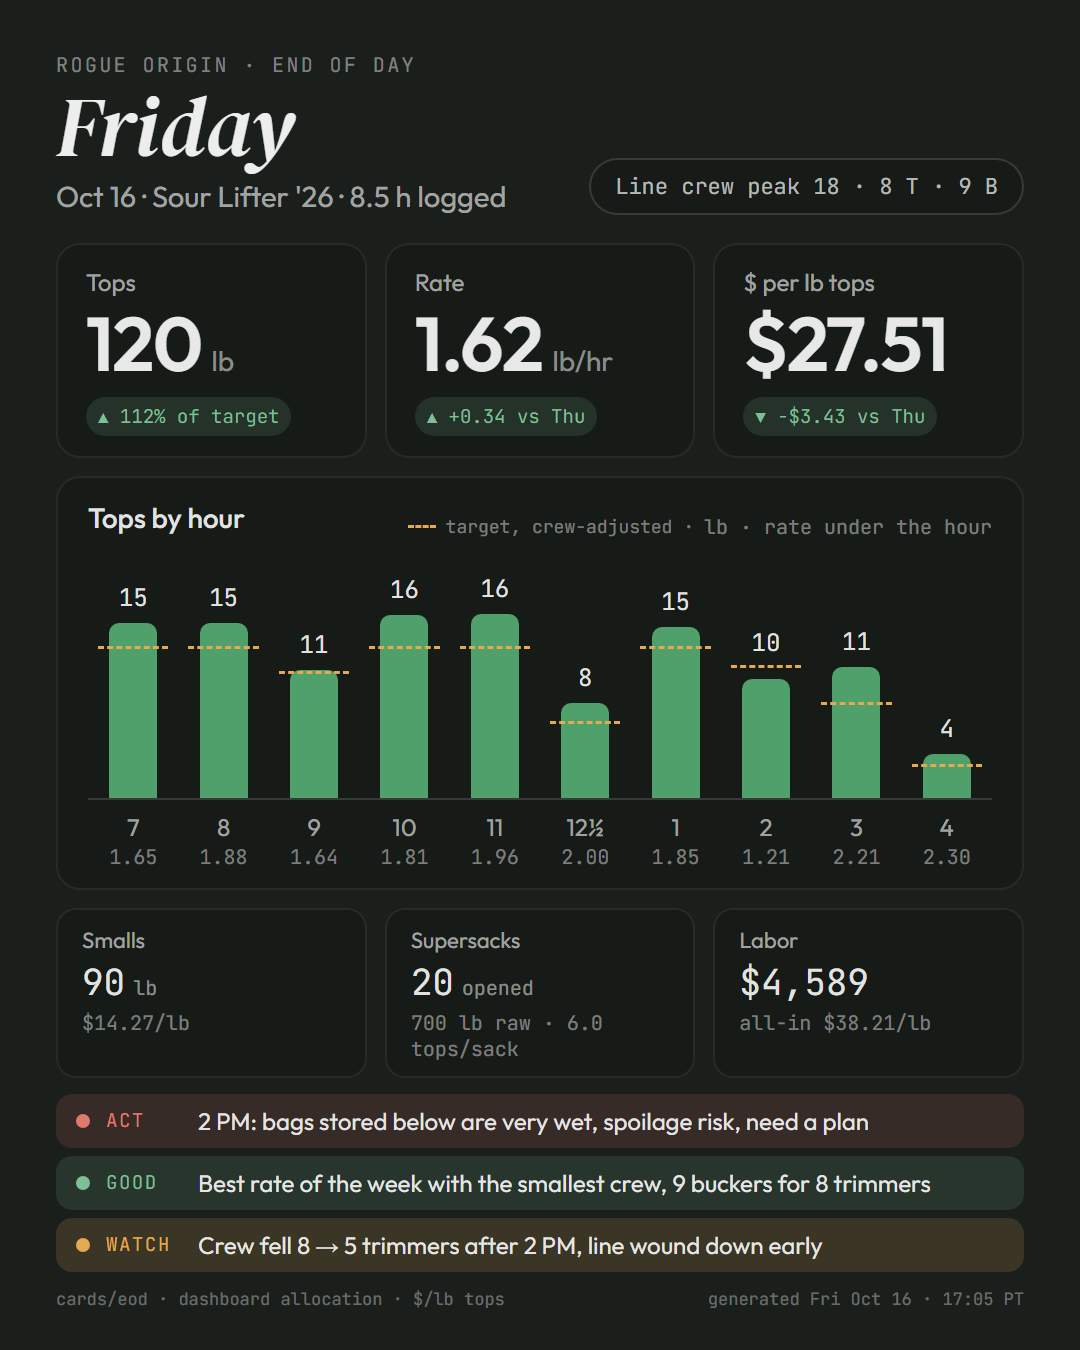
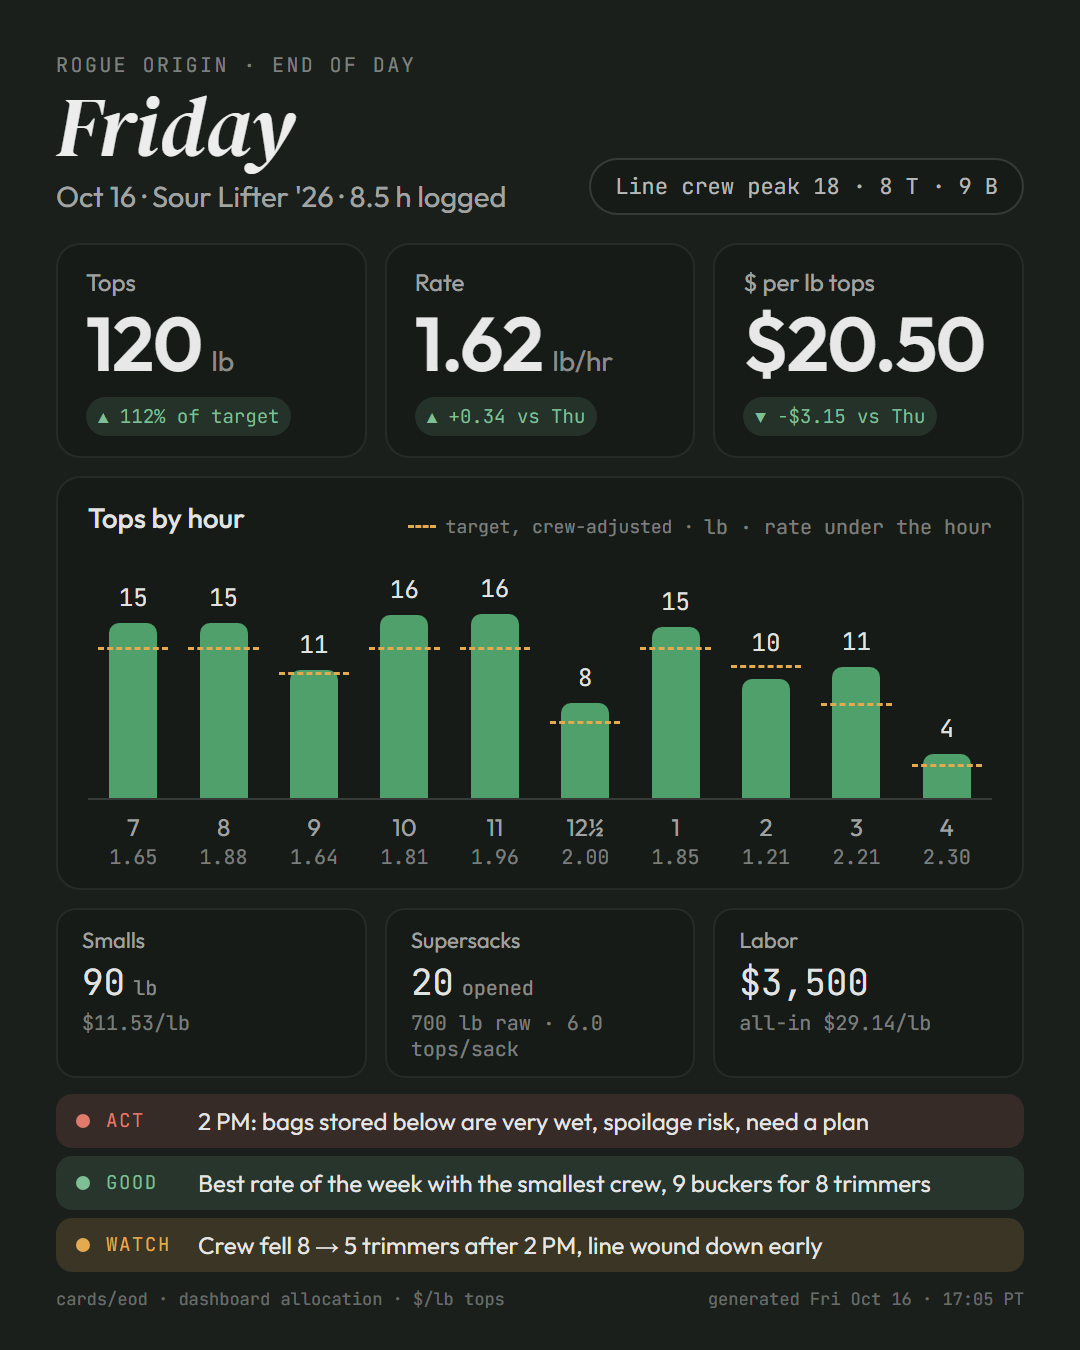
fix(cards): replace real labor-cost figures with synthetic ones
The cards test fixtures, the cost maps the tests inject, the design mocks and
two older docs carried real dashboard cost figures and the real loaded wage.
The repo is public and Pages serves the whole tree, so these undid the API
cost lock. They are now synthetic ($20 per operator hour; invented tops/smalls
splits), and the wage example in labor-rate.test is synthetic too.

The weekly test still exercises the displayed-vs-raw rounding split on the
cost chip, and every chip keeps its direction. The non-cost fixture data is
what the public API already serves without the password.

diff --git a/cards/src/model.js b/cards/src/model.js
@@ -101,9 +101,9 @@ const signed = (body) => (v) => {
   return v < 0 && /[1-9]/.test(text) ? MINUS + text : text;
 };
 
-/** 20530.26 → "20,530"; -20530.26 → "−20,530". */
+/** 15660.26 → "15,660"; -15660.26 → "−15,660". */
 export const fmtInt = signed((v) => intFormat.format(Math.round(v)));
-/** 20530.26 → "$20,530"; -5 → "−$5". */
+/** 15660.26 → "$15,660"; -5 → "−$5". */
 export const fmtMoney = signed((v) => `$${intFormat.format(Math.round(v))}`);
 /** 5.58 → "5.6". */
 export const fmt1 = signed((v) => v.toFixed(1));
@@ -172,7 +172,7 @@ function weighted(items, valueOf, weightOf) {
 
 /** A 2-decimal figure at display precision, so a change chip is the difference of the numbers as shown. */
 const shown2 = (v) => (Number.isFinite(v) ? Math.round(v * 100) / 100 : null);
-/** 27.514 → "$27.51". */
+/** 20.504 → "$20.50". */
 const perLb = (v) => (Number.isFinite(v) ? `$${fmt2(v)}` : DASH);
 
 const dayRate = (day) => ratio(day.totalTops, day.trimmerHours);

diff --git a/docs/plans/assets/2026-10-19-card-mock-builder.py b/docs/plans/assets/2026-10-19-card-mock-builder.py
@@ -175,13 +175,13 @@ def eod():
     <div class="tiles">
       {tile("Tops", "120", "lb", [("good", "▲ 112% of target")])}
       {tile("Rate", "1.62", "lb/hr", [("good", "▲ +0.34 vs Thu")])}
-      {tile("$ per lb tops", "$27.51", "", [("good", "▼ −$3.43 vs Thu")])}
+      {tile("$ per lb tops", "$20.50", "", [("good", "▼ −$3.15 vs Thu")])}
     </div>
     {chart("Tops by hour", "lb · rate under the hour", cols, 48, ppl)}
     <div class="row2">
-      {mini("Smalls", "90", "lb", "$14.27/lb")}
+      {mini("Smalls", "90", "lb", "$11.53/lb")}
       {mini("Supersacks", "20", "opened", "700 lb raw · 6.0 tops/sack")}
-      {mini("Labor", "$4,589", "", "all-in $38.21/lb")}
+      {mini("Labor", "$3,500", "", "all-in $29.14/lb")}
     </div>
     <div class="watch">
       {flag("bad", "Act", "2 PM: bags stored below are very wet, spoilage risk, need a plan")}
@@ -211,13 +211,13 @@ def weekly():
     <div class="tiles">
       {tile("Tops", "497", "lb", [("good", "▲ +261% vs W41"), ("warn", f"{wk_pct:.0f}% target")])}
       {tile("Rate", "1.34", "lb/hr", [("good", "▲ +0.14 vs W41")])}
-      {tile("$ per lb tops", "$30.28", "", [("good", "▼ −$4.84 vs W41")])}
+      {tile("$ per lb tops", "$22.78", "", [("good", "▼ −$3.55 vs W41")])}
     </div>
     {chart("Tops by day", "lb · rate under the day", cols, 72, ppl)}
     <div class="row2">
-      {mini("Smalls", "429", "lb", "$12.76/lb")}
+      {mini("Smalls", "429", "lb", "$10.10/lb")}
       {mini("Supersacks", "88", "opened", "3,080 lb raw · 5.6 tops/sack")}
-      {mini("Labor", "$20,530", "", "all-in $41.29/lb")}
+      {mini("Labor", "$15,660", "", "all-in $31.50/lb")}
     </div>
     <div class="watch">
       {flag("bad", "Act", "Fri: wet bags stored below, spoilage risk")}

diff --git a/docs/plans/2026-10-19-production-cards-plan.md b/docs/plans/2026-10-19-production-cards-plan.md
@@ -22,7 +22,7 @@
 - Create: `cards/package.json`
 - Create: `cards/wrangler.toml`
 - Exists: `cards/fonts/{Outfit-Medium,Outfit-SemiBold,JetBrainsMono-Regular,DMSerifDisplay-Italic}.ttf`
-- Exists: `cards/test/fixtures/*.json` (captured 2026-10-19 from the live API; `dashboard-2026-W42.unlocked.json` has cost keys, the `.locked.json` files do not)
+- Exists: `cards/test/fixtures/*.json` (captured 2026-10-19 from the live API; `dashboard-2026-W42.unlocked.json` has cost keys, synthetic since 2026-10-29, the `.locked.json` files do not)
 - Modify: `.gitignore` → add `cards/node_modules/` and `cards/.wrangler/`
 
 **Step 1: write `cards/package.json`**
@@ -188,7 +188,7 @@ test('translate keeps unknown words and maps the floor vocabulary', () => {
 test('costsLocked is true when the dashboard day has no topsCostPerLb', () => { ... locked fixture → true; unlocked → false });
 test('delta chip: direction, sign, good/bad polarity', () => {
   assert.deepEqual(deltaChip(1.34, 1.20, { fmt: v => v.toFixed(2), upIsGood: true, vs: 'W41' }), { kind: 'good', text: '▲ +0.14 vs W41' });
-  assert.deepEqual(deltaChip(30.28, 35.12, { fmt: v => '$' + v.toFixed(2), upIsGood: false, vs: 'W41' }), { kind: 'good', text: '▼ −$4.84 vs W41' });
+  assert.deepEqual(deltaChip(22.78, 26.33, { fmt: v => '$' + v.toFixed(2), upIsGood: false, vs: 'W41' }), { kind: 'good', text: '▼ −$3.55 vs W41' });
   assert.deepEqual(deltaChip(100, 100, { fmt: String, upIsGood: true, vs: 'Thu' }), { kind: 'neutral', text: '= vs Thu' });
   assert.equal(deltaChip(5, null, {...}), null);
 });
@@ -221,7 +221,7 @@ test('header', () => {
 test('hero tiles', () => {
   assert.deepEqual(m.tiles[0], { label: 'Tops', value: '497', unit: 'lb', chips: [{ kind: 'good', text: '▲ +261% vs W41' }, { kind: 'warn', text: '98% target' }] });
   assert.equal(m.tiles[1].value, '1.34');
-  assert.deepEqual(m.tiles[2], { label: '$ per lb tops', value: '$30.28', unit: '', chips: [{ kind: 'good', text: '▼ −$4.84 vs W41' }] });
+  assert.deepEqual(m.tiles[2], { label: '$ per lb tops', value: '$22.78', unit: '', chips: [{ kind: 'good', text: '▼ −$3.55 vs W41' }] });
 });
 test('chart has five weekday columns, Monday off, ticks from the scoreboard targets', () => {
   assert.equal(m.chart.cols.length, 5);
@@ -231,9 +231,9 @@ test('chart has five weekday columns, Monday off, ticks from the scoreboard targ
   assert.equal(m.chart.cols[4].rate, '1.62');
 });
 test('mini row', () => {
-  assert.deepEqual(m.minis[0], { label: 'Smalls', value: '429', unit: 'lb', sub: '$12.76/lb' });
+  assert.deepEqual(m.minis[0], { label: 'Smalls', value: '429', unit: 'lb', sub: '$10.10/lb' });
   assert.deepEqual(m.minis[1], { label: 'Supersacks', value: '88', unit: 'opened', sub: '3,080 lb raw · 5.6 tops/sack' });
-  assert.deepEqual(m.minis[2], { label: 'Labor', value: '$20,530', unit: '', sub: 'all-in $41.29/lb' });
+  assert.deepEqual(m.minis[2], { label: 'Labor', value: '$15,660', unit: '', sub: 'all-in $31.50/lb' });
 });
 test('flags: at most three, Act first', () => {
   assert.equal(m.flags[0].kind, 'bad');
@@ -251,7 +251,7 @@ test('foot', () => assert.deepEqual(m.foot, { left: 'cards/weekly · dashboard a
 
 Rules the implementation must follow (they are the approved mock):
 - Weighted averages: rate = Σ tops ÷ Σ trimmerHours; $/lb tops = Σ(topsCostPerLb × tops) ÷ Σ tops; smalls likewise; all-in = Σ laborCost ÷ Σ tops.
-- Prior week deltas use the same formulas on `prior.daily`. Tops delta as a percentage (`+261%`), rate as `+0.14`, cost as `−$4.84`; `upIsGood` false for cost.
+- Prior week deltas use the same formulas on `prior.daily`. Tops delta as a percentage (`+261%`), rate as `+0.14`, cost as `−$3.55`; `upIsGood` false for cost.
 - `% target` = Σ tops ÷ Σ scoreboard `todayTarget` of the worked days; chip kind: ≥100 good, 90–99 warn, else bad.
 - Cultivar short name: dominant `cultivar` across days; strip a leading `YYYY - `, strip ` / Sungrown`; append `'YY` from the leading year; more than one cultivar → main one + ` +1` per extra.
 - Days: Monday..Friday of the week; a weekday missing from `daily` (or `totalTops` 0) is `kind: 'off'`.
@@ -267,13 +267,13 @@ Rules the implementation must follow (they are the approved mock):
 
 **Files:**
 - Modify: `cards/src/model.js` → export `eodModel({ date, dashboard, priorDay, scoreboard, sacks, generatedAt })`
-- Test: `cards/test/model-eod.test.mjs` (fixtures: `dashboard-2026-10-16.locked.json` + an unlocked copy built in the test by adding the known cost keys `laborCost 4588.5, costPerLb 21.84, topsCostPerLb 27.51, smallsCostPerLb 14.27`; prior `dashboard-2026-10-15.locked.json` with `topsCostPerLb 30.94` added; `scoreboard-2026-10-16.json`; `supersack-2026-10-16.json`)
+- Test: `cards/test/model-eod.test.mjs` (fixtures: `dashboard-2026-10-16.locked.json` + an unlocked copy built in the test by adding the known cost keys `laborCost 3500, costPerLb 16.66, topsCostPerLb 20.50, smallsCostPerLb 11.53`; prior `dashboard-2026-10-15.locked.json` with `topsCostPerLb 23.65` added; `scoreboard-2026-10-16.json`; `supersack-2026-10-16.json`)
 
 **Tests (same shape as A5):**
 - title `Friday`, sub `Oct 16 · Sour Lifter '26 · 8.5 h logged` (hours = scoreboard `effectiveHours` to 1 decimal), pill `Line crew peak 18 · 8 T · 9 B` (peak = `totalCrew`; T/B = the max trimmers / max buckers across hourlyRates).
-- tiles: Tops `120` lb chip `▲ 112% of target` (todayPercentage, kind by the same bands); Rate `1.62` chip `▲ +0.34 vs Thu`; `$ per lb tops` `$27.51` chip `▼ −$3.43 vs Thu`.
+- tiles: Tops `120` lb chip `▲ 112% of target` (todayPercentage, kind by the same bands); Rate `1.62` chip `▲ +0.34 vs Thu`; `$ per lb tops` `$20.50` chip `▼ −$3.15 vs Thu`.
 - chart: one column per `hourlyRates` row sorted by slot start; `lbs`, `rate` 2 decimals, `target = hourTarget(row)` (effectiveTrimmers × row.target × multiplier, the scoreboard method), `label = slotLabel`.
-- minis: Smalls `90` lb `$14.27/lb`; Supersacks `20` opened `700 lb raw · 6.0 tops/sack`; Labor `$4,589` `all-in $38.21/lb`.
+- minis: Smalls `90` lb `$11.53/lb`; Supersacks `20` opened `700 lb raw · 6.0 tops/sack`; Labor `$3,500` `all-in $29.14/lb`.
 - flags: Act from the day's bad note with the slot start prefix ("2 PM: …"), Good = `Best hour 3–4 at 2.21` or, when the day's rate beats the prior day, `Best rate since <prior day>` — keep it simple: Good = best hour line; Watch = warn note or, if none, a crew drop ("Crew fell 8 → 5 trimmers after 2 PM") when the last hour's trimmers are < 70% of the peak.
 - no rows (`hourlyRates` empty) → the function returns `null` (the route turns that into 204).
 - locked variant → 🔒 as in A5.

diff --git a/docs/plans/2026-01-28-strain-analysis-ai.md b/docs/plans/2026-01-28-strain-analysis-ai.md
@@ -48,8 +48,8 @@ For each of the top 5 strains:
 **Example AI Context Addition:**
 ```
 RECENT STRAIN ACTIVITY (Last 7 Days):
-1. 2025 - Lifter / Sungrown: 532.3 lbs (5 days, 0.86 lbs/hr, $47.71/lb tops, $13.89/lb smalls)
-2. 2025 - Sour Lifter / Sungrown: 412.1 lbs (4 days, 0.92 lbs/hr, $45.20/lb tops, $12.34/lb smalls)
+1. 2025 - Lifter / Sungrown: 532.3 lbs (5 days, 0.86 lbs/hr, $36.40/lb tops, $10.60/lb smalls)
+2. 2025 - Sour Lifter / Sungrown: 412.1 lbs (4 days, 0.92 lbs/hr, $34.50/lb tops, $9.40/lb smalls)
 ...
 ```
 
@@ -107,7 +107,7 @@ LIMIT 5
 
 **Processing:**
 ```javascript
-const HOURLY_RATE = 26.22;
+const HOURLY_RATE = 20.00; // example only — the real loaded rate lives in D1 config
 
 rows.map(r => {
   const totalLbs = r.total_tops + r.total_smalls;
@@ -203,10 +203,10 @@ ORDER BY production_date, time_slot
       daysWorked: 5,
       productionHours: 38,
       avgRate: 0.86,
-      topsCostPerLb: 47.71,
-      smallsCostPerLb: 13.89,
-      blendedCostPerLb: 32.26,
-      totalLaborCost: 17174.10
+      topsCostPerLb: 36.40,
+      smallsCostPerLb: 10.60,
+      blendedCostPerLb: 24.61,
+      totalLaborCost: 13100.00
     },
     labor: {
       trimmerHours: 373,
@@ -336,10 +336,10 @@ User: "How's Lifter doing?"
   ↓
 AI loads context (includes strainSnapshot)
   ↓
-AI sees: "Lifter: 532.3 lbs (5 days, 0.86 lbs/hr, $47.71/lb tops)"
+AI sees: "Lifter: 532.3 lbs (5 days, 0.86 lbs/hr, $36.40/lb tops)"
   ↓
 AI responds: "Lifter's been solid this week - 532 lbs over 5 days at 0.86 lbs/hr.
-Tops are running $47.71/lb, smalls at $13.89/lb."
+Tops are running $36.40/lb, smalls at $10.60/lb."
 ```
 
 ### Deep Analysis Flow (Tier 2)
@@ -369,7 +369,7 @@ User: What's our most efficient strain?
 
 AI: Based on the last 7 days, Sour Lifter is leading at 0.92 lbs/hr,
 followed by Lifter at 0.86 lbs/hr. Sour Lifter also has lower tops
-cost ($45.20/lb vs $47.71/lb).
+cost ($34.50/lb vs $36.40/lb).
 ```
 *Uses Tier 1 context only - instant response*
 
@@ -385,7 +385,7 @@ AI: Let me pull the full analysis for you.
 [Returns formatted analysis with data cards showing:]
 - Total production: 532.3 lbs (289 tops, 243 smalls)
 - Efficiency: 0.86 lbs/crew-hour average
-- Labor costs: $47.71/lb tops, $13.89/lb smalls
+- Labor costs: $36.40/lb tops, $10.60/lb smalls
 - Best day: Jan 19 (0.98 lbs/hr)
 - 5 production days across 3 strain variants
 ```
@@ -400,8 +400,8 @@ AI: Looking at recent data, I need to compare all strains. Let me check.
 {"task": "analyze_strain", "params": {"strain": "Sour Lifter", "days": 30}}
 ```
 
-Based on the analysis, Sour Lifter has the best tops cost at $45.20/lb,
-beating Lifter's $47.71/lb. The difference comes from better efficiency
+Based on the analysis, Sour Lifter has the best tops cost at $34.50/lb,
+beating Lifter's $36.40/lb. The difference comes from better efficiency
 (0.92 vs 0.86 lbs/hr).
 ```
 *AI can call tool multiple times to compare strains*
@@ -519,4 +519,4 @@ None - all changes to existing files
 - Analysis tool supports any strain (not limited to top 5)
 - Fuzzy matching allows flexible queries ("lifter" matches "2025 - Lifter / Sungrown")
 - Cost calculations use split allocation (trimmers→tops, shared roles→ratio)
-- All monetary values assume $26.22/hour labor cost (includes 14% Oregon taxes)
+- All monetary values in this doc are examples at a synthetic $20.00/hour loaded rate; the real rate (wage + 14% Oregon taxes) lives in D1 config

diff --git a/docs/plans/2026-10-19-production-cards-design.md b/docs/plans/2026-10-19-production-cards-design.md
@@ -51,7 +51,7 @@ cards/                       rogue-origin-cards worker (this repo)
   src/render.js              satori(tree, fonts) → svg → resvg → png; wasm + font loading abstracted for Node vs Workers
   src/fonts.js               font registry (name, weight, style, bytes loader)
   test/                      model, layout, render (real satori+resvg in Node), routes (mocked upstream)
-  test/fixtures/             real API JSON captured 2026-10-19 (W42 dashboard with and without costs, scoreboards, sack summaries)
+  test/fixtures/             API JSON captured 2026-10-19 without the password (W42 dashboard with and without costs — the cost keys are synthetic —, scoreboards, sack summaries)
 
 telegram-claude-bot/         bridge
   src/telegram.ts            + sendPhoto(env, bytes, {caption, filename}) multipart to sendPhoto

diff --git a/.planning/codebase/CONVENTIONS.md b/.planning/codebase/CONVENTIONS.md
@@ -18,7 +18,7 @@
 
 **Variables:**
 - `camelCase` for local variables and constants
-- `UPPER_SNAKE_CASE` for configuration constants (e.g., `BASE_WAGE_RATE = 23.00`, `TIMEZONE = 'America/Los_Angeles'`)
+- `UPPER_SNAKE_CASE` for configuration constants (e.g., `MAX_RETRIES = 3`, `TIMEZONE = 'America/Los_Angeles'`)
 - Prefix state getter/setters: `getData()`, `setData()`, `isAppsScript()`, `setShowSkeletonsCallback()`
 - Use descriptive names for objects: `state`, `result`, `error`, `options`, `meta`
 
